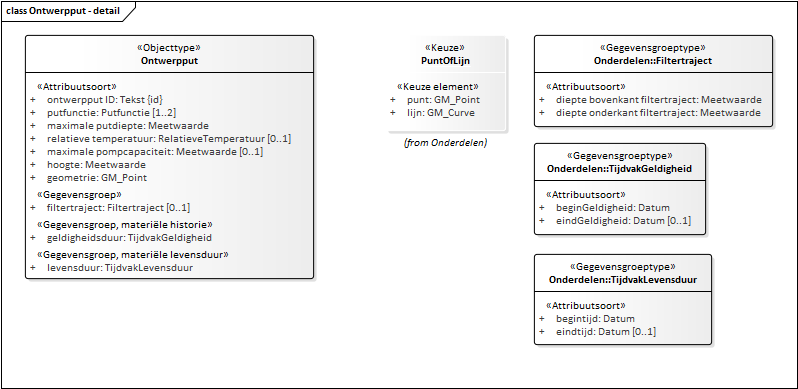
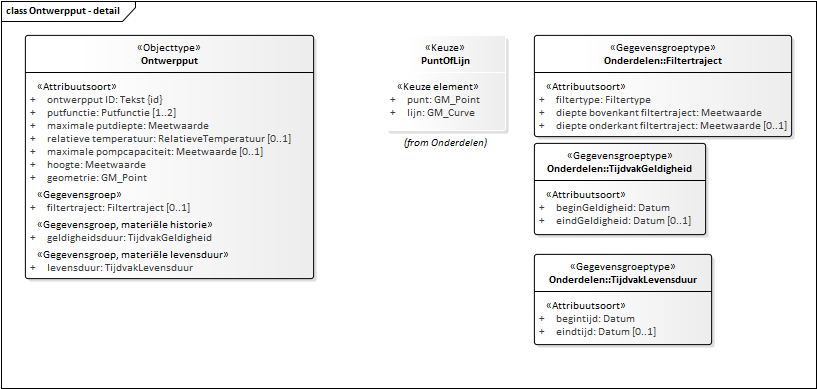
Conceptualmodel-GrondwatergebruikGUFconceptueel-0.1-1-20200401-20210115-154443

diff --git a/data/GUF-cat.msword.html b/data/GUF-cat.msword.html
@@ -15,7 +15,7 @@
    <body>
       <p>Conceptual model/Grondwatergebruik (GUF) conceptueel/20200401</p>
       <p>Imvertor: 1.63.0</p>
-      <p>Model release: Conceptualmodel-GrondwatergebruikGUFconceptueel-0.1-1-20200401-20210115-104634</p>
+      <p>Model release: Conceptualmodel-GrondwatergebruikGUFconceptueel-0.1-1-20200401-20210115-154443</p>
       <hr>
       <section>
          <h1>Artikel 1 Definitie van registratieobject, entiteiten en attributen</h1>
@@ -467,7 +467,7 @@
                            </tr>
                         </tbody>
                      </table>
-                     </section><a class="anchor" id="detail_d51988e1666"></a><section id="detail_d51988e1666">
+                     </section><a class="anchor" id="detail_d52338e1666"></a><section id="detail_d52338e1666">
                      <h4>  registratiegeschiedenis</h4>
                      
                      
@@ -522,7 +522,7 @@
                            </tr>
                         </tbody>
                      </table>
-                     </section><a class="anchor" id="detail_d51988e1875"></a><section id="detail_d51988e1875">
+                     </section><a class="anchor" id="detail_d52338e1875"></a><section id="detail_d52338e1875">
                      <h4>  geldigheidsduur</h4>
                      
                      
@@ -569,7 +569,7 @@
                            </tr>
                         </tbody>
                      </table>
-                     </section><a class="anchor" id="detail_d51988e2042"></a><section id="detail_d51988e2042">
+                     </section><a class="anchor" id="detail_d52338e2042"></a><section id="detail_d52338e2042">
                      <h4>  levensduur</h4>
                      
                      
@@ -789,7 +789,7 @@
                            </tr>
                         </tbody>
                      </table>
-                     </section><a class="anchor" id="detail_d51988e2829"></a><section id="detail_d51988e2829">
+                     </section><a class="anchor" id="detail_d52338e2829"></a><section id="detail_d52338e2829">
                      <h4>  maximale waterverplaatsing</h4>
                      
                      
@@ -865,7 +865,7 @@
                            </tr>
                         </tbody>
                      </table>
-                     </section><a class="anchor" id="detail_d51988e3114"></a><section id="detail_d51988e3114">
+                     </section><a class="anchor" id="detail_d52338e3114"></a><section id="detail_d52338e3114">
                      <h4>  gebruiksdoel systeem</h4>
                      
                      
@@ -912,7 +912,7 @@
                            </tr>
                         </tbody>
                      </table>
-                     </section><a class="anchor" id="detail_d51988e3281"></a><section id="detail_d51988e3281">
+                     </section><a class="anchor" id="detail_d52338e3281"></a><section id="detail_d52338e3281">
                      <h4>  geldigheidsduur</h4>
                      
                      
@@ -1279,7 +1279,7 @@
                            </tr>
                         </tbody>
                      </table>
-                     </section><a class="anchor" id="detail_d51988e4423"></a><section id="detail_d51988e4423">
+                     </section><a class="anchor" id="detail_d52338e4423"></a><section id="detail_d52338e4423">
                      <h4>  maximale waterverplaatsing</h4>
                      
                      
@@ -1356,7 +1356,7 @@
                            </tr>
                         </tbody>
                      </table>
-                     </section><a class="anchor" id="detail_d51988e4761"></a><section id="detail_d51988e4761">
+                     </section><a class="anchor" id="detail_d52338e4761"></a><section id="detail_d52338e4761">
                      <h4>  energiekenmerken</h4>
                      
                      
@@ -1423,7 +1423,7 @@
                            </tr>
                         </tbody>
                      </table>
-                     </section><a class="anchor" id="detail_d51988e5071"></a><section id="detail_d51988e5071">
+                     </section><a class="anchor" id="detail_d52338e5071"></a><section id="detail_d52338e5071">
                      <h4>  geldigheidsduur</h4>
                      
                      
@@ -1470,7 +1470,7 @@
                            </tr>
                         </tbody>
                      </table>
-                     </section><a class="anchor" id="detail_d51988e5238"></a><section id="detail_d51988e5238">
+                     </section><a class="anchor" id="detail_d52338e5238"></a><section id="detail_d52338e5238">
                      <h4>  levensduur</h4>
                      
                      
@@ -1715,7 +1715,7 @@
                            </tr>
                         </tbody>
                      </table>
-                     </section><a class="anchor" id="detail_d51988e6052"></a><section id="detail_d51988e6052">
+                     </section><a class="anchor" id="detail_d52338e6052"></a><section id="detail_d52338e6052">
                      <h4>  geldigheidsduur</h4>
                      
                      
@@ -1762,7 +1762,7 @@
                            </tr>
                         </tbody>
                      </table>
-                     </section><a class="anchor" id="detail_d51988e6219"></a><section id="detail_d51988e6219">
+                     </section><a class="anchor" id="detail_d52338e6219"></a><section id="detail_d52338e6219">
                      <h4>  levensduur</h4>
                      
                      
@@ -1972,7 +1972,7 @@
                               <td>
                                  
                                  <p>De tweedimensionale punt-, of lijn, of vlakgeometrie van de infiltratieplas of het
-                                    infiltratiekanaal zoals het in de beschikking of melding is opgenomen.</p>
+                                    infiltratiekanaal.</p>
                                  </td>
                            </tr>
                            <tr>
@@ -1999,12 +1999,14 @@
                               <th>Toelichting</th>
                               <td>
                                  
-                                 <p>Dit is het centroide of een puntlocatie binnen de begrenzing van de plas of het kanaal.</p>
+                                 <p>Waneer gekozen wordt voor een punt is dit het centroide binnen de begrenzing van de
+                                    plas of het kanaal. Bij een kanaal mag ook het type lijn gekozen worden en bij een
+                                    plas mag een vlak gekozen worden.</p>
                                  </td>
                            </tr>
                         </tbody>
                      </table>
-                     </section><a class="anchor" id="detail_d51988e7107"></a><section id="detail_d51988e7107">
+                     </section><a class="anchor" id="detail_d52338e7107"></a><section id="detail_d52338e7107">
                      <h4>  geldigheidsduur</h4>
                      
                      
@@ -2052,7 +2054,7 @@
                            </tr>
                         </tbody>
                      </table>
-                     </section><a class="anchor" id="detail_d51988e7274"></a><section id="detail_d51988e7274">
+                     </section><a class="anchor" id="detail_d52338e7274"></a><section id="detail_d52338e7274">
                      <h4>  levensduur</h4>
                      
                      
@@ -2103,7 +2105,7 @@
                      </section>
                </section><a class="anchor" id="graph_EAID_FC483397_9430_4114_AE54_A7BE5A654EA9"></a><a class="anchor" id="global_class_Model_Ontwerpput"></a><section id="global_class_Model_Ontwerpput">
                   <h3>   Ontwerpput</h3>
-                  <div class="imageinfo "><img src="Images/EAID_50745169_8A2B_4173_AFA0_187A37454C21.png" usemap="#imagemap-EAID_50745169_8A2B_4173_AFA0_187A37454C21" alt="Diagram "><map name="imagemap-EAID_50745169_8A2B_4173_AFA0_187A37454C21"><area shape="rect" alt="TijdvakLevensduur" coords="534,254,712,345" href="#graph_EAID_7C14BEF4_6FA0_4e19_9FB4_DFDD995B1187"><area shape="rect" alt="TijdvakGeldigheid" coords="534,143,706,235" href="#graph_EAID_CD1A77A6_6028_4ca0_B78A_46792498A185"><area shape="rect" alt="Filtertraject" coords="534,35,773,127" href="#graph_EAID_F9C69DF7_57F6_4a2e_AB62_ABBE414B3C9B"><area shape="rect" alt="Ontwerpput" coords="25,35,314,279" href="#graph_EAID_FC483397_9430_4114_AE54_A7BE5A654EA9"></map><p><b></b></p>
+                  <div class="imageinfo "><img src="Images/EAID_50745169_8A2B_4173_AFA0_187A37454C21.png" usemap="#imagemap-EAID_50745169_8A2B_4173_AFA0_187A37454C21" alt="Diagram "><map name="imagemap-EAID_50745169_8A2B_4173_AFA0_187A37454C21"><area shape="rect" alt="TijdvakLevensduur" coords="534,254,712,345" href="#graph_EAID_7C14BEF4_6FA0_4e19_9FB4_DFDD995B1187"><area shape="rect" alt="TijdvakGeldigheid" coords="534,143,706,235" href="#graph_EAID_CD1A77A6_6028_4ca0_B78A_46792498A185"><area shape="rect" alt="Filtertraject" coords="534,35,792,137" href="#graph_EAID_F9C69DF7_57F6_4a2e_AB62_ABBE414B3C9B"><area shape="rect" alt="Ontwerpput" coords="25,35,314,279" href="#graph_EAID_FC483397_9430_4114_AE54_A7BE5A654EA9"></map><p><b></b></p>
                   </div>
                   <table style="width: 100%;">
                      <colgroup style="width: 30%;"></colgroup>
@@ -2556,7 +2558,7 @@
                            </tr>
                         </tbody>
                      </table>
-                     </section><a class="anchor" id="detail_d51988e8971"></a><section id="detail_d51988e8971">
+                     </section><a class="anchor" id="detail_d52338e8971"></a><section id="detail_d52338e8971">
                      <h4>  filtertraject</h4>
                      
                      
@@ -2624,7 +2626,7 @@
                            </tr>
                         </tbody>
                      </table>
-                     </section><a class="anchor" id="detail_d51988e9242"></a><section id="detail_d51988e9242">
+                     </section><a class="anchor" id="detail_d52338e9242"></a><section id="detail_d52338e9242">
                      <h4>  geldigheidsduur</h4>
                      
                      
@@ -2671,7 +2673,7 @@
                            </tr>
                         </tbody>
                      </table>
-                     </section><a class="anchor" id="detail_d51988e9409"></a><section id="detail_d51988e9409">
+                     </section><a class="anchor" id="detail_d52338e9409"></a><section id="detail_d52338e9409">
                      <h4>  levensduur</h4>
                      
                      
@@ -3087,7 +3089,7 @@
                            </tr>
                         </tbody>
                      </table>
-                     </section><a class="anchor" id="detail_d51988e10732"></a><section id="detail_d51988e10732">
+                     </section><a class="anchor" id="detail_d52338e10732"></a><section id="detail_d52338e10732">
                      <h4>  geldigheidsduur</h4>
                      
                      
@@ -3135,7 +3137,7 @@
                            </tr>
                         </tbody>
                      </table>
-                     </section><a class="anchor" id="detail_d51988e10899"></a><section id="detail_d51988e10899">
+                     </section><a class="anchor" id="detail_d52338e10899"></a><section id="detail_d52338e10899">
                      <h4>  levensduur</h4>
                      
                      
@@ -3442,7 +3444,7 @@
                            </tr>
                         </tbody>
                      </table>
-                     </section><a class="anchor" id="detail_d51988e11942"></a><section id="detail_d51988e11942">
+                     </section><a class="anchor" id="detail_d52338e11942"></a><section id="detail_d52338e11942">
                      <h4>  geldigheidsduur</h4>
                      
                      
@@ -3490,7 +3492,7 @@
                            </tr>
                         </tbody>
                      </table>
-                     </section><a class="anchor" id="detail_d51988e12109"></a><section id="detail_d51988e12109">
+                     </section><a class="anchor" id="detail_d52338e12109"></a><section id="detail_d52338e12109">
                      <h4>  levensduur</h4>
                      
                      
@@ -3671,14 +3673,14 @@
                               <th>Toelichting</th>
                               <td>
                                  
-                                 <p>Dit is het centroide of een puntlocatie binnen de begrenzing van de plas of het kanaal.
-                                    De vlakgeometrie is terug te vinden in de basisregistratie grootschalige topografie
-                                    (BGT). </p>
+                                 <p>Waneer gekozen wordt voor een punt is dit het centroide binnen de begrenzing van de
+                                    plas of het kanaal. Bij een kanaal mag ook het type lijn gekozen worden en bij een
+                                    plas mag een vlak gekozen worden.</p>
                                  </td>
                            </tr>
                         </tbody>
                      </table>
-                     </section><a class="anchor" id="detail_d51988e12818"></a><section id="detail_d51988e12818">
+                     </section><a class="anchor" id="detail_d52338e12816"></a><section id="detail_d52338e12816">
                      <h4>  geldigheidsduur</h4>
                      
                      
@@ -3726,7 +3728,7 @@
                            </tr>
                         </tbody>
                      </table>
-                     </section><a class="anchor" id="detail_d51988e12985"></a><section id="detail_d51988e12985">
+                     </section><a class="anchor" id="detail_d52338e12983"></a><section id="detail_d52338e12983">
                      <h4>  levensduur</h4>
                      
                      
@@ -4199,7 +4201,7 @@
                            </tr>
                         </tbody>
                      </table>
-                     </section><a class="anchor" id="detail_d51988e14595"></a><section id="detail_d51988e14595">
+                     </section><a class="anchor" id="detail_d52338e14593"></a><section id="detail_d52338e14593">
                      <h4>  geldigheidsduur</h4>
                      
                      
@@ -4246,7 +4248,7 @@
                            </tr>
                         </tbody>
                      </table>
-                     </section><a class="anchor" id="detail_d51988e14762"></a><section id="detail_d51988e14762">
+                     </section><a class="anchor" id="detail_d52338e14760"></a><section id="detail_d52338e14760">
                      <h4>  levensduur</h4>
                      
                      
@@ -4600,7 +4602,7 @@
                            </tr>
                         </tbody>
                      </table>
-                     </section><a class="anchor" id="detail_d51988e15991"></a><section id="detail_d51988e15991">
+                     </section><a class="anchor" id="detail_d52338e15989"></a><section id="detail_d52338e15989">
                      <h4>  geldigheidsduur</h4>
                      
                      
@@ -4647,7 +4649,7 @@
                            </tr>
                         </tbody>
                      </table>
-                     </section><a class="anchor" id="detail_d51988e16158"></a><section id="detail_d51988e16158">
+                     </section><a class="anchor" id="detail_d52338e16156"></a><section id="detail_d52338e16156">
                      <h4>  levensduur</h4>
                      
                      
@@ -6712,7 +6714,52 @@
                               </td>
                         </tr>
                      </tbody>
-                  </table><a class="anchor" id="detail_attribute_Model_Filtertraject_dieptebovenkantfiltertraject"></a><section id="detail_attribute_Model_Filtertraject_dieptebovenkantfiltertraject">
+                  </table><a class="anchor" id="detail_attribute_Model_Filtertraject_filtertype"></a><section id="detail_attribute_Model_Filtertraject_filtertype">
+                     <h4>  filtertype</h4>
+                     
+                     <table style="width: 100%;">
+                        <colgroup style="width: 30%;"></colgroup>
+                        <colgroup style="width: 70%;"></colgroup>
+                        <tbody>
+                           <tr>
+                              <th>Type gegeven</th>
+                              <td>Attribuut van Filtertraject</td>
+                           </tr>
+                           <tr>
+                              <th>Definitie</th>
+                              <td>
+                                 
+                                 <p>Het type filter van de ontwerput. Het type geeft de oriëntatierichtring  van het filter
+                                    of de filters aan.</p>
+                                 </td>
+                           </tr>
+                           <tr>
+                              <th>Juridische status</th>
+                              <td>Authentiek</td>
+                           </tr>
+                           <tr>
+                              <th>Kardinaliteit</th>
+                              <td>1</td>
+                           </tr>
+                           <tr>
+                              <th>Domein</th>
+                              <td></td>
+                           </tr>
+                           <tr>
+                              <th>&nbsp;&nbsp;Naam</th>
+                              <td><a class="link" href="#detail_class_Model_Filtertype">Filtertype</a></td>
+                           </tr>
+                           <tr>
+                              <th>&nbsp;&nbsp;Type</th>
+                              <td>Waardelijst uitbreidbaar</td>
+                           </tr>
+                           <tr>
+                              <th>Materiële geschiedenis</th>
+                              <td>Nee</td>
+                           </tr>
+                        </tbody>
+                     </table>
+                     </section><a class="anchor" id="detail_attribute_Model_Filtertraject_dieptebovenkantfiltertraject"></a><section id="detail_attribute_Model_Filtertraject_dieptebovenkantfiltertraject">
                      <h4>  diepte bovenkant filtertraject</h4>
                      
                      <table style="width: 100%;">
@@ -6785,7 +6832,7 @@
                            </tr>
                            <tr>
                               <th>Kardinaliteit</th>
-                              <td>1</td>
+                              <td>0..1</td>
                            </tr>
                            <tr>
                               <th>Domein</th>
@@ -6805,6 +6852,14 @@
                               <td>0 tot 500</td>
                            </tr>
                            <tr>
+                              <th>Regels</th>
+                              <td>
+                                 
+                                 <p>Het gegeven mag ontbreken wanneer de waarde van het attribuut <em>filtertype</em> gelijk is aan <em>horizontaal</em>
+                                    </p>
+                                 </td>
+                           </tr>
+                           <tr>
                               <th>Materiële geschiedenis</th>
                               <td>Ja</td>
                            </tr>
@@ -6813,9 +6868,9 @@
                               <td>
                                  
                                  <p>Het al dan niet opdelen van het filtertraject in afzonderlijke stukken wordt niet
-                                    bij het ontwerp filter geregistreerd. Dit wordt normaal gesproken tijdens de realisatie
-                                    bepaald omdat ten tijde van het ontwerp de exacte bodemopbouw ter plaatse nog niet
-                                    bekend is.</p>
+                                    als onderdeel van de ontwerpput geregistreerd. Dit wordt normaal gesproken tijdens
+                                    de realisatie bepaald omdat ten tijde van het ontwerp de exacte bodemopbouw ter plaatse
+                                    nog niet bekend is.</p>
                                  </td>
                            </tr>
                         </tbody>
